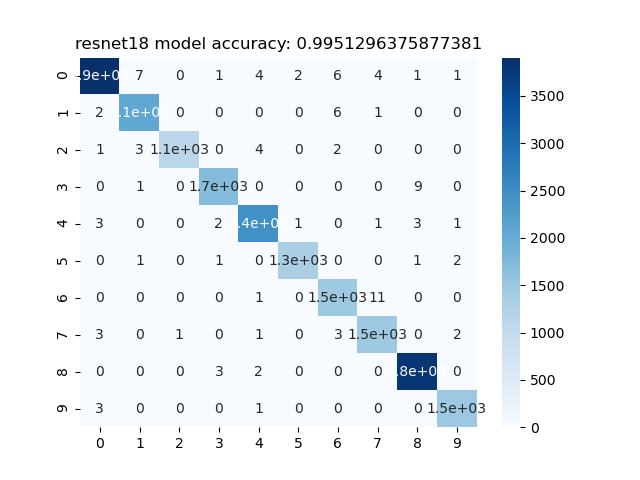
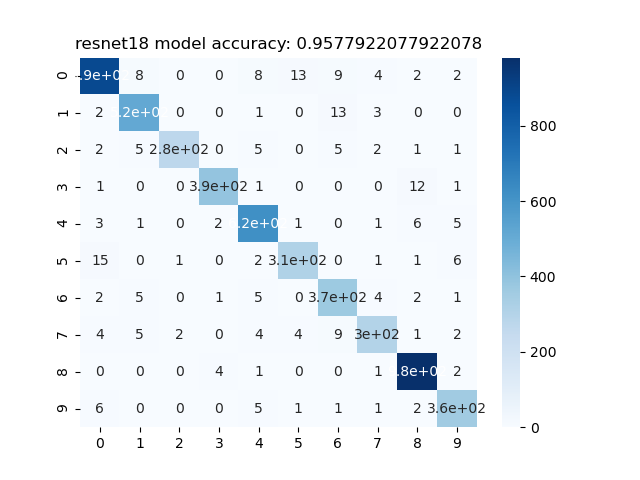
モデル比較のためのデータを評価用のものに変更

diff --git a/Training8/show_diff.py b/Training8/show_diff.py
@@ -56,7 +56,7 @@ print("Inferring")
 i = 0
 model_new.eval()
 model_old.eval()
-for data in dataloaders["train"]:
+for data in dataloaders["val"]:
     # if i == 1000:
     #     break
     inputs, labels = data  # ImageFolderで作成したデータは、データをラベルを持ってくれます。

diff --git a/Training8/README.md b/Training8/README.md
@@ -20,8 +20,8 @@ ResNet18とVGG16との推論結果の違いを考察する
 
 #### Confusion Matrixと精度の考察
 ![cm](report_material/cm.png)
-ResNet18の方が精度が良い。VGG16よりも後発でさらに多層構造であるため優秀なのかなと感じる
+ResNet18もVGG16もほぼ同じ精度。Animal10だと両者に差はないことがわかった
 
 #### 両者で推論結果が異なるものの比較
 ![diff](report_material/diff_result.png)
-ResNet18が不正解の場合は、犬と判断していることが多い。これは不明なものはとりあえず犬としているのかも。一方でVGG16が不正解の場合は、鳥を蝶々や牛を馬とかかなり惜しい。両者で際どい推論判定の場合が異なることがわかり、面白い
+ResNet18の場合は、リスを猫に間違えていたり、犬を馬に間違えていたりとかなり惜しい。VGG16は羊を象に間違えていたりと割と適当だなと感じた。そこはResNet18の方が多層構造であるため優れているからなのかも
